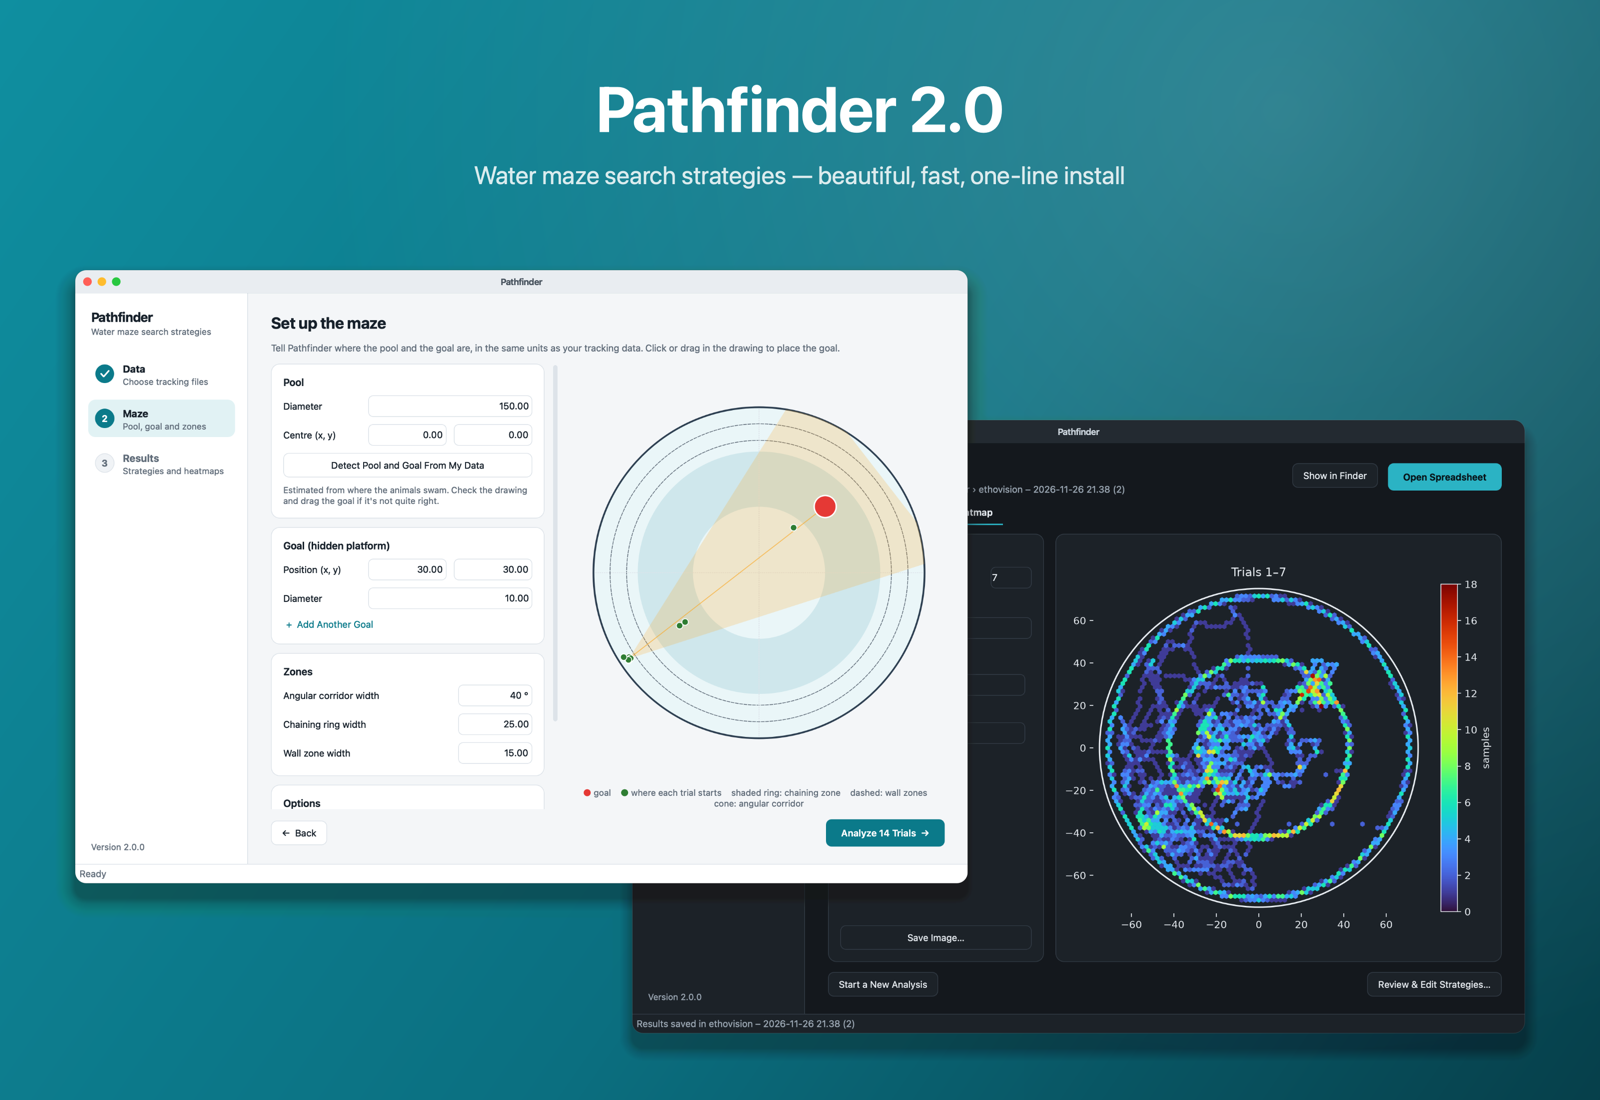
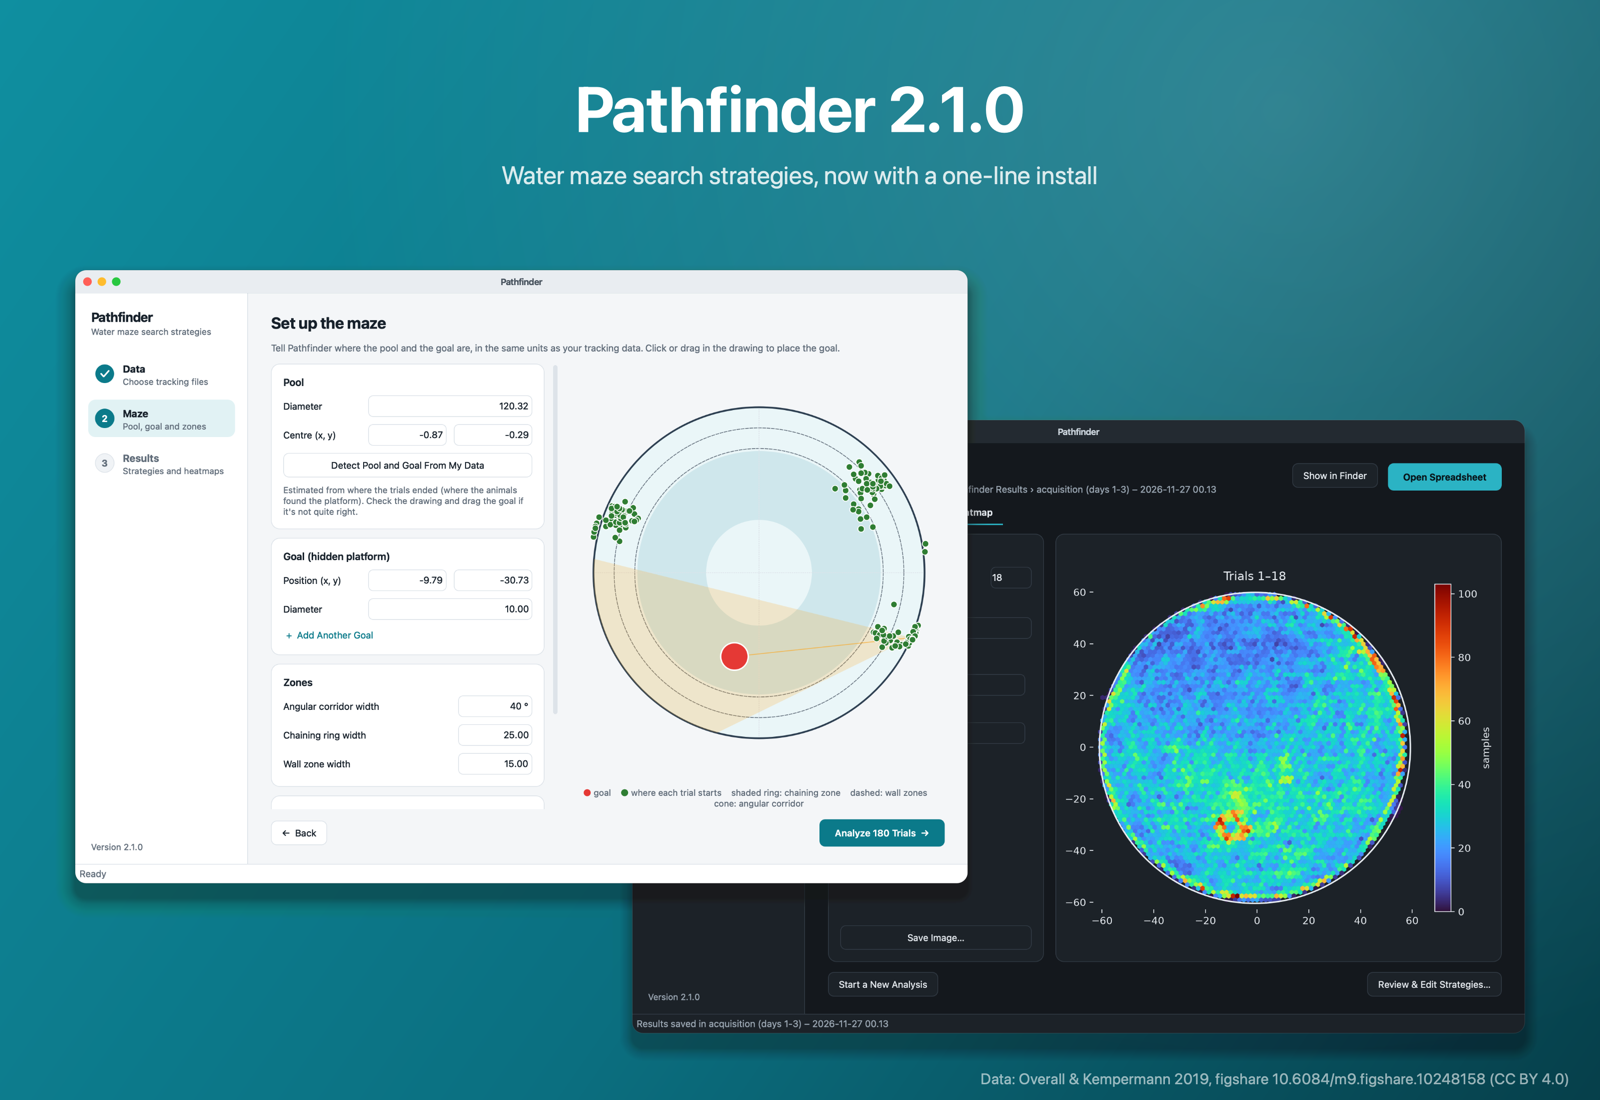
Showcase and README screenshots from real mouse data
Screenshots now use the Overall & Kempermann (2019) acquisition trials
(CC BY 4.0), with a credit line in the README. Adds tools/make_showcase.py.

diff --git a/tools/make_showcase.py b/tools/make_showcase.py
@@ -1,0 +1,118 @@
+"""Frame screen grabs (from tools/screenshots.py) as macOS-style windows on a gradient,
+with a headline, for sharing.
+
+    uv run python tools/screenshots.py SHOTS "<folder of real trials>"
+    uv run python tools/make_showcase.py SHOTS OUTDIR
+"""
+import sys
+from pathlib import Path
+
+from PySide6.QtCore import QPointF, QRectF, Qt
+from PySide6.QtGui import (QColor, QFont, QGuiApplication, QImage, QLinearGradient, QPainter,
+                           QPainterPath, QRadialGradient)
+
+SRC = Path(sys.argv[1])
+OUT = Path(sys.argv[2])
+OUT.mkdir(parents=True, exist_ok=True)
+app = QGuiApplication(sys.argv)
+from pathfinder import __version__  # noqa: E402
+
+W, H = 3200, 2200
+BAR = 64  # title bar height (px at 2x)
+CREDIT = "Data: Overall & Kempermann 2019, figshare 10.6084/m9.figshare.10248158 (CC BY 4.0)"
+
+
+def credit(p):
+    f = QFont(); f.setPixelSize(30); p.setFont(f); p.setPen(QColor(255, 255, 255, 150))
+    p.drawText(QRectF(0, H - 64, W - 60, 44), Qt.AlignRight | Qt.AlignVCenter, CREDIT)
+
+
+def background(p, dark):
+    g = QLinearGradient(0, 0, W, H)
+    if dark:
+        g.setColorAt(0, QColor("#0B1B22")); g.setColorAt(1, QColor("#05343D"))
+    else:
+        g.setColorAt(0, QColor("#0F8FA0")); g.setColorAt(0.55, QColor("#0B6F80")); g.setColorAt(1, QColor("#063F4A"))
+    p.fillRect(0, 0, W, H, g)
+    glow = QRadialGradient(QPointF(W * 0.8, H * 0.1), W * 0.6)
+    glow.setColorAt(0, QColor(255, 255, 255, 40 if not dark else 22))
+    glow.setColorAt(1, QColor(255, 255, 255, 0))
+    p.fillRect(0, 0, W, H, glow)
+
+
+def shadow(p, rect, radius):
+    for i in range(40, 0, -1):
+        a = int(5 * (1 - i / 40) ** 1.5) + 1
+        p.setPen(Qt.NoPen)
+        p.setBrush(QColor(0, 0, 0, a))
+        p.drawRoundedRect(rect.adjusted(-i, -i + 30, i, i + 30), radius + i, radius + i)
+
+
+def window(p, img: QImage, rect: QRectF, dark: bool, title="Pathfinder"):
+    r = 22
+    shadow(p, rect, r)
+    clip = QPainterPath(); clip.addRoundedRect(rect, r, r)
+    p.save(); p.setClipPath(clip)
+    bar = QRectF(rect.left(), rect.top(), rect.width(), BAR * rect.width() / 2480)
+    p.fillRect(bar, QColor("#232A31" if dark else "#E9EDF1"))
+    p.drawImage(QRectF(rect.left(), bar.bottom(), rect.width(), rect.height() - bar.height()), img)
+    p.restore()
+    p.setPen(QColor(255, 255, 255, 30) if dark else QColor(0, 0, 0, 40))
+    p.setBrush(Qt.NoBrush); p.drawRoundedRect(rect, r, r)
+    s = bar.height() / 64
+    for i, c in enumerate(("#FF5F57", "#FEBC2E", "#28C840")):
+        p.setPen(Qt.NoPen); p.setBrush(QColor(c))
+        p.drawEllipse(QPointF(bar.left() + (34 + i * 40) * s, bar.center().y()), 12 * s, 12 * s)
+    f = QFont(); f.setPixelSize(int(26 * s)); f.setWeight(QFont.DemiBold); p.setFont(f)
+    p.setPen(QColor("#C9D2DA" if dark else "#4A5560"))
+    p.drawText(bar, Qt.AlignCenter, title)
+
+
+def text(p, s, y, size, weight, alpha=255):
+    f = QFont(); f.setPixelSize(size); f.setWeight(weight); f.setLetterSpacing(QFont.PercentageSpacing, 99)
+    p.setFont(f); p.setPen(QColor(255, 255, 255, alpha))
+    p.drawText(QRectF(0, y, W, size * 1.5), Qt.AlignHCenter | Qt.AlignTop, s)
+
+
+def shot(name, head, sub, dark=False, title="Pathfinder"):
+    img = QImage(str(SRC / name))
+    out = QImage(W, H, QImage.Format_ARGB32); out.fill(0)
+    p = QPainter(out); p.setRenderHints(QPainter.Antialiasing | QPainter.SmoothPixmapTransform)
+    background(p, dark)
+    text(p, head, 150, 104, QFont.Bold)
+    text(p, sub, 300, 46, QFont.Normal, 210)
+    k = min(2430 / img.width(), 1540 / img.height())
+    ww = img.width() * k; wh = img.height() * k + BAR * ww / 2480
+    window(p, img, QRectF((W - ww) / 2, 470, ww, wh), dark, title)
+    credit(p)
+    p.end()
+    return out
+
+
+def hero():
+    out = QImage(W, H, QImage.Format_ARGB32); out.fill(0)
+    p = QPainter(out); p.setRenderHints(QPainter.Antialiasing | QPainter.SmoothPixmapTransform)
+    background(p, False)
+    text(p, f"Pathfinder {__version__}", 140, 128, QFont.Bold)
+    text(p, "Water maze search strategies, now with a one-line install", 320, 50, QFont.Normal, 215)
+    sc = 0.72; ww = 2480 * sc; wh = (1640 + BAR) * sc
+    window(p, QImage(str(SRC / "dark-6-heatmap.png")), QRectF(W - ww - 150, 840, ww, wh), True)
+    window(p, QImage(str(SRC / "light-3-maze.png")), QRectF(150, 540, ww, wh), False)
+    credit(p)
+    p.end()
+    return out
+
+
+hero().save(str(OUT / "01-hero.png"))
+items = [
+    ("light-2-data.png", "Drop in a folder. Done.", "EthoVision, ANY-maze, WaterMaze and ezTrack are recognized automatically", False),
+    ("light-3-maze.png", "Finds your pool and platform", "Detected from 180 real swims, within 3 cm of the true platform", False),
+    ("light-4-summary.png", "Every trial, classified", "Identical to the original Pathfinder on real mouse data", False),
+    ("light-5-trials.png", "Check each swim path", "Sortable trial table with the path of every trial", False),
+    ("dark-6-heatmap.png", "See where they searched", "The hotspot is the hidden platform. Filter by trial or animal", True),
+    ("light-7-review.png", "Review with your keyboard", "Press 1–9 to confirm or correct a strategy", False, "Review Trials"),
+    ("dark-3-maze.png", "Dark mode included", "Follows your Mac's appearance automatically", True),
+]
+for i, (n, h, s, d, *t) in enumerate(items, start=2):
+    shot(n, h, s, d, *t).save(str(OUT / f"{i:02d}-{n.split('-', 2)[2][:-4]}{'-dark' if d else ''}.png"))
+print("ok")

diff --git a/tools/screenshots.py b/tools/screenshots.py
@@ -1,6 +1,10 @@
 """Render every screen to PNG (light and dark) for docs and visual review.
 
-    uv run python tools/screenshots.py OUTDIR
+    uv run python tools/screenshots.py OUTDIR [DATA_FOLDER]
+
+DATA_FOLDER defaults to the real-data test subset (tests/fixtures/real_overall2019/acquisition).
+The README screenshots use the full acquisition phase of the same dataset (180 trials,
+Overall & Kempermann 2019, https://doi.org/10.6084/m9.figshare.10248158.v3, CC BY 4.0).
 """
 import sys
 import tempfile
@@ -10,8 +14,8 @@ from PySide6.QtCore import QStandardPaths, QTimer
 from PySide6.QtWidgets import QApplication
 
 ROOT = Path(__file__).resolve().parents[1]
-FIX = ROOT / "tests/fixtures/ethovision"
 OUT = Path(sys.argv[1] if len(sys.argv) > 1 else ROOT / "docs/screenshots")
+FIX = Path(sys.argv[2]) if len(sys.argv) > 2 else ROOT / "tests/fixtures/real_overall2019/acquisition"
 OUT.mkdir(parents=True, exist_ok=True)
 
 QStandardPaths.setTestModeEnabled(True)
@@ -19,7 +23,7 @@ app = QApplication(sys.argv)
 from pathfinder.gui import app as appmod, state, theme  # noqa: E402
 
 tmp = Path(tempfile.mkdtemp())
-state.results_root = lambda: tmp / "Pathfinder"
+state.results_root = lambda: tmp / state.RESULTS_FOLDER
 state.config_dir = lambda: tmp
 
 
@@ -39,6 +43,7 @@ def wait(cond, ms=20000):
 
 
 for mode in ("light", "dark"):
+    state.results_root = lambda m=mode: tmp / m / state.RESULTS_FOLDER  # no "(2)" suffix on the 2nd run
     theme.current = (lambda m=mode: theme.DARK if m == "dark" else theme.LIGHT)
     appmod.apply_theme(app)
     w = appmod.MainWindow()
@@ -52,12 +57,7 @@ for mode in ("light", "dark"):
     w.grab().save(str(OUT / f"{mode}-2-data.png"))
     w.go(1)
     mp = w.maze_page
-    mp.detect()
-    mp.maze_d.setValue(150)
-    mp.cx.setValue(0)
-    mp.cy.setValue(0)
-    mp.gx.setValue(30)
-    mp.gy.setValue(30)
+    mp.detect()  # exactly what a user clicks
     pump()
     w.grab().save(str(OUT / f"{mode}-3-maze.png"))
     mp.run_btn.click()
@@ -66,14 +66,21 @@ for mode in ("light", "dark"):
     rp = w.results_page
     w.grab().save(str(OUT / f"{mode}-4-summary.png"))
     rp.tabs.setCurrentIndex(1)
-    rp.table.selectRow(3)
+    # show a clean direct swim beside the table
+    m = rp.table.model()
+    hit = next((r for r in range(m.rowCount()) if m.index(r, 2).data() == "Direct Path"), 3)
+    rp.table.selectRow(hit)
+    rp.table.scrollTo(m.index(hit, 0))
     pump()
     w.grab().save(str(OUT / f"{mode}-5-trials.png"))
     rp.tabs.setCurrentIndex(2)
     pump(600)
     w.grab().save(str(OUT / f"{mode}-6-heatmap.png"))
     from pathfinder.gui.dialogs import ReviewDialog, SettingsDialog
-    d = ReviewDialog(rp.sets[0][2][:3], rp.sets[0][1], w.state.setup, w)
+    res = rp.sets[0][2]
+    pick = [next((r for r in res if r.strategy == k), None) for k in ("Directed Search", "Indirect Search", "Scanning")]
+    pick = [r for r in pick if r is not None]
+    d = ReviewDialog((pick or res)[:3], rp.sets[0][1], w.state.setup, w)
     d.show()
     pump()
     d.grab().save(str(OUT / f"{mode}-7-review.png"))

diff --git a/README.md b/README.md
@@ -78,6 +78,8 @@ Light and dark mode follow your system setting.
 
 ![Dark mode](docs/screenshots/dark-3-maze.png)
 
+<sub>Screenshots show real mouse data: Overall & Kempermann (2019), [figshare](https://doi.org/10.6084/m9.figshare.10248158.v3), CC BY 4.0.</sub>
+
 ## What changed from the original
 
 - New Qt (PySide6) interface in three steps: Data → Maze → Results. It doesn't freeze during analysis, and you can cancel.
